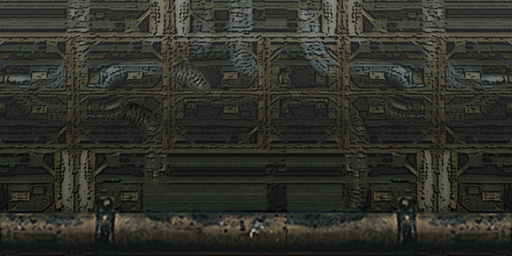
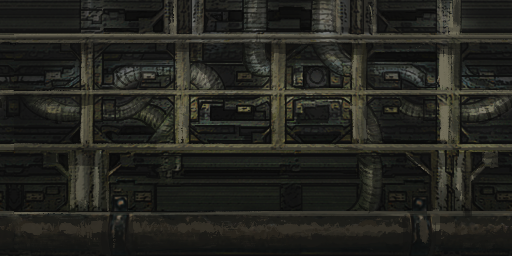
Kill attached creatures as they are forcefully detached from the hull via manouvers
- Added damageondetach and detachstun xml variables to latchonto (See crawler.xml for example).
- Added new wall sprite.

diff --git a/Barotrauma/BarotraumaShared/Source/Characters/AI/LatchOntoAI.cs b/Barotrauma/BarotraumaShared/Source/Characters/AI/LatchOntoAI.cs
@@ -22,6 +22,7 @@ namespace Barotrauma
         private bool attachToWalls;
 
         private float minDeattachSpeed = 3.0f, maxDeattachSpeed = 10.0f;
+        private float damageOnDetach = 0.0f, detachStun = 0.0f;
         private float deattachTimer;
 
         private Vector2 wallAttachPos;
@@ -54,6 +55,8 @@ namespace Barotrauma
             attachToSub = element.GetAttributeBool("attachtosub", false);
             minDeattachSpeed = element.GetAttributeFloat("mindeattachspeed", 3.0f);
             maxDeattachSpeed = Math.Max(minDeattachSpeed, element.GetAttributeFloat("maxdeattachspeed", 10.0f));
+            damageOnDetach = element.GetAttributeFloat("damageondetach", 0.0f);
+            detachStun = element.GetAttributeFloat("detachstun", 0.0f);
 
             LimbType attachLimbType;
             if (Enum.TryParse(element.GetAttributeString("attachlimb", "Head"), out attachLimbType))
@@ -178,6 +181,7 @@ namespace Barotrauma
                     if (Rand.Range(0.0f, 1.0f) < velocityFactor)
                     {
                         DeattachFromBody();
+                        character.AddDamage(character.WorldPosition, new List<Affliction>() { AfflictionPrefab.InternalDamage.Instantiate(damageOnDetach) }, detachStun, true);
                         attachCooldown = 5.0f;
                     }
                 }
